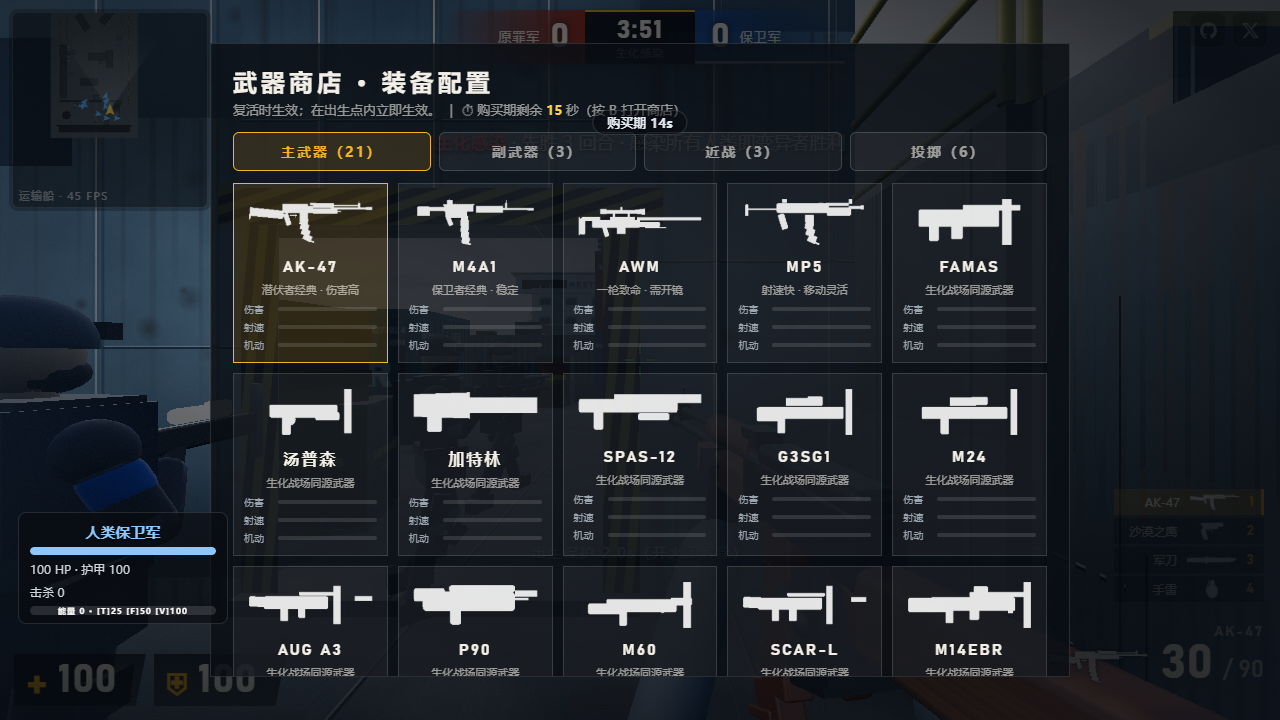
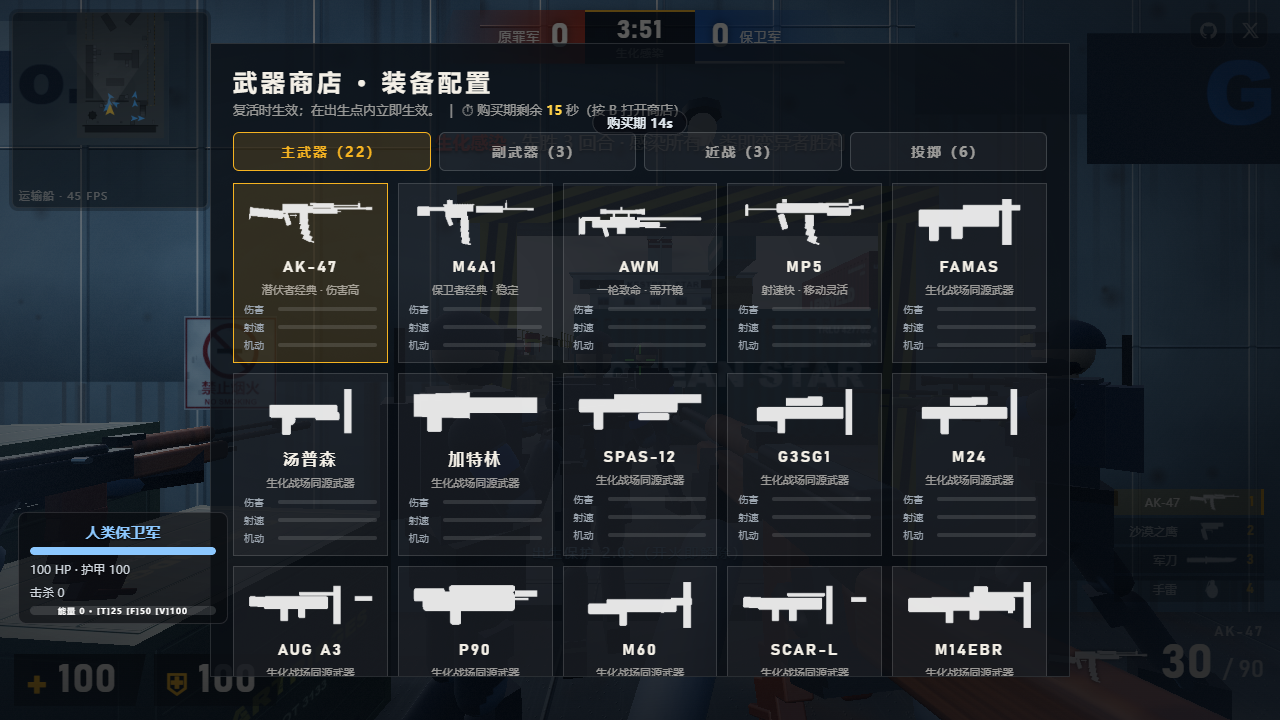
WOZ V46: 新武器火焰喷射器（锥形持续喷射·近距高 DPS）
- weapons: flamer（type flamer continuous，7 伤/0.06s 射击频率，100 燃料，射程 9m）
- actor.weaponUpdate: flamer 分支（按住持续喷射）
- game.flameAttack: 28° 锥形 LOS 判定全体波及 + 火舌粒子 + 动态火光 + 微震屏
- guns: 喷管/燃料罐/点火嘴建模；商店 22 张主武器卡
- 测试: probe v43 3 断言（有效伤害/燃料消耗）3 连跑全绿 + v8 卡数同步

diff --git a/cf-transport-ship/src/game.js b/cf-transport-ship/src/game.js
@@ -616,6 +616,32 @@ export class Game {
       },
     });
   }
+  // 火焰喷射器（V47）：锥形持续伤害 + 火焰粒子 + 点燃视觉
+  flameAttack(a, d) {
+    const eye = a.eye(new THREE.Vector3());
+    const fwd = a.forward(new THREE.Vector3());
+    const COS = Math.cos(0.24); // 约 28° 半角锥
+    for (const v of this.actors) {
+      if (!v.alive || v === a || v.team === a.team) continue;
+      const to = new THREE.Vector3(v.pos.x - eye.x, (v.pos.y + 1.0) - eye.y, v.pos.z - eye.z);
+      const dist = to.length();
+      if (dist > d.range) continue;
+      to.divideScalar(dist || 1);
+      if (to.dot(fwd) < COS) continue;
+      if (this.world.raycast(eye.x, eye.y, eye.z, to.x, to.y, to.z, dist, 'sight')) continue;
+      this.damage(v, a, d.dmg, 'chest', 'flamer', to, false, true);
+      if (Math.random() < 0.25) this.fx.impact(new THREE.Vector3(v.pos.x, v.pos.y + 1.2, v.pos.z), new THREE.Vector3(0, 1, 0), 'flesh', new THREE.Vector3(0, 1, 0));
+    }
+    // 火舌粒子：沿射向呈锥形喷出
+    const tip = eye.clone().addScaledVector(fwd, 1.2);
+    for (let i = 0; i < 6; i++) {
+      const sp = 8 + Math.random() * 8, jx = (Math.random() - 0.5) * 2.2, jy = (Math.random() - 0.3) * 2.2, jz = (Math.random() - 0.5) * 2.2;
+      this.fx.smoke.emit({ x: tip.x, y: tip.y, z: tip.z, vx: fwd.x * sp + jx, vy: fwd.y * sp + jy + 1.2, vz: fwd.z * sp + jz, life: 0, max: 0.3 + Math.random() * 0.25, s0: 0.3, s1: 1.3, r: 1.9, g: 0.9 + Math.random() * 0.5, b: 0.15, a0: 0.85, a1: 0, grav: 1.2, drag: 3 });
+    }
+    this.fx.light(tip, 7, 0.07, 0xff8030, 12);
+    if (a.isPlayer) this.fx.shake = Math.max(this.fx.shake || 0, 0.045);
+    audio.playFootstep(a.isPlayer ? null : eye, 'metal', { run: true, crouch: false }); // 喷射低鸣（复用脚步声近似）
+  }
   fireLauncher(a, w) {
     const eye = a.eye(new THREE.Vector3());
     const dir = a.forward(new THREE.Vector3());

diff --git a/cf-transport-ship/src/weapons.js b/cf-transport-ship/src/weapons.js
@@ -214,6 +214,13 @@ export const WEAPONS = {
     speed: 1.05, sound: 'knife', hudName: 'CROWBAR', knock: 5.0, stagger: 0.24, mag: 0, reserve: 0,
   },
 
+  // ---- V47（火焰喷射器）----
+  flamer: {
+    id: 'flamer', name: '火焰喷射器', slot: 0, type: 'flamer', auto: true, continuous: true,
+    dmg: 7, range: 9, rateLight: 0.06, mag: 100, reserve: 200, reload: 4.0, draw: 0.9,
+    speed: 0.9, sound: 'grenade', hudName: 'FLAMETHROWER', knock: 0.3, stagger: 0.02, armorPen: 0.9,
+  },
+
   // ---- V40（榴弹发射器）----
   m79: {
     id: 'm79', name: 'M79 榴弹枪', slot: 0, type: 'launcher', auto: false,
@@ -256,7 +263,7 @@ export const WEAPONS = {
   },
 };
 
-export const PRIMARIES = ['ak47', 'm4a1', 'awm', 'mp5', 'famas', 'thompson', 'minigun', 'spas', 'g3sg1', 'm24', 'aug', 'p90', 'm60', 'scarl', 'm14ebr', 'm3super', 'mac10', 'qbz95', 'xm8', 'dualuzi', 'm79'];
+export const PRIMARIES = ['ak47', 'm4a1', 'awm', 'mp5', 'famas', 'thompson', 'minigun', 'spas', 'g3sg1', 'm24', 'aug', 'p90', 'm60', 'scarl', 'm14ebr', 'm3super', 'mac10', 'qbz95', 'xm8', 'dualuzi', 'm79', 'flamer'];
 // V19：副武器三选（沙鹰默认；R8 左轮为原作风格高伤手炮）
 export const SECONDARIES = ['deagle', 'usp', 'r8'];
 // V45：近战 selectable（电锯为复仇者/变异者专属不在列）

diff --git a/cf-transport-ship/src/guns.js b/cf-transport-ship/src/guns.js
@@ -316,6 +316,17 @@ const builders = {
     anchor(g, 'grip', 0, -0.05, 0.1); anchor(g, 'muzzle', 0, 0, -0.42);
     return g;
   },
+  flamer(m) {
+    const g = new THREE.Group();
+    part(g, CZ(0.05, 0.42, 12), m.dark, 0, 0.02, -0.16);                // 主喷管
+    part(g, CZ(0.056, 0.05, 12), m.metal, 0, 0.02, -0.38);              // 喷口箍
+    part(g, CZ(0.02, 0.14, 8), m.steel, 0, 0.05, -0.44);                // 点火嘴
+    part(g, CZ(0.07, 0.3, 12), m.metal, 0.09, -0.05, 0.02, 0, 0, 0.12); // 侧挂燃料罐
+    part(g, RB(0.04, 0.1, 0.05, 0.01), m.rubber, 0, -0.08, 0.06);       // 握把
+    part(g, RB(0.045, 0.035, 0.12, 0.008), m.rubber, 0, -0.035, -0.16); // 前护木
+    anchor(g, 'grip', 0, -0.07, 0.06); anchor(g, 'muzzle', 0, 0.02, -0.42);
+    return g;
+  },
   m79(m) {
     const g = new THREE.Group();
     part(g, CZ(0.045, 0.5, 12), m.dark, 0, 0.03, -0.18);                // 粗发射管

diff --git a/cf-transport-ship/src/actor.js b/cf-transport-ship/src/actor.js
@@ -168,6 +168,14 @@ export class Actor {
     // 换弹
     if (inp.reload && w.canReload()) this.startReload();
     if (w.reloading) return;
+    if (d.type === 'flamer') {
+      // 火焰喷射器（V47）：按住持续喷射锥形火焰，短距高 DPS
+      if (inp.fire && now >= w.nextFire && w.mag > 0) {
+        w.mag--; w.nextFire = now + d.rateLight;
+        g.flameAttack(this, d);
+      }
+      return;
+    }
     if (d.type === 'melee') {
       if (d.continuous) {
         // 电锯：按住左键持续切割（无攻击间隔），右键重击必杀
